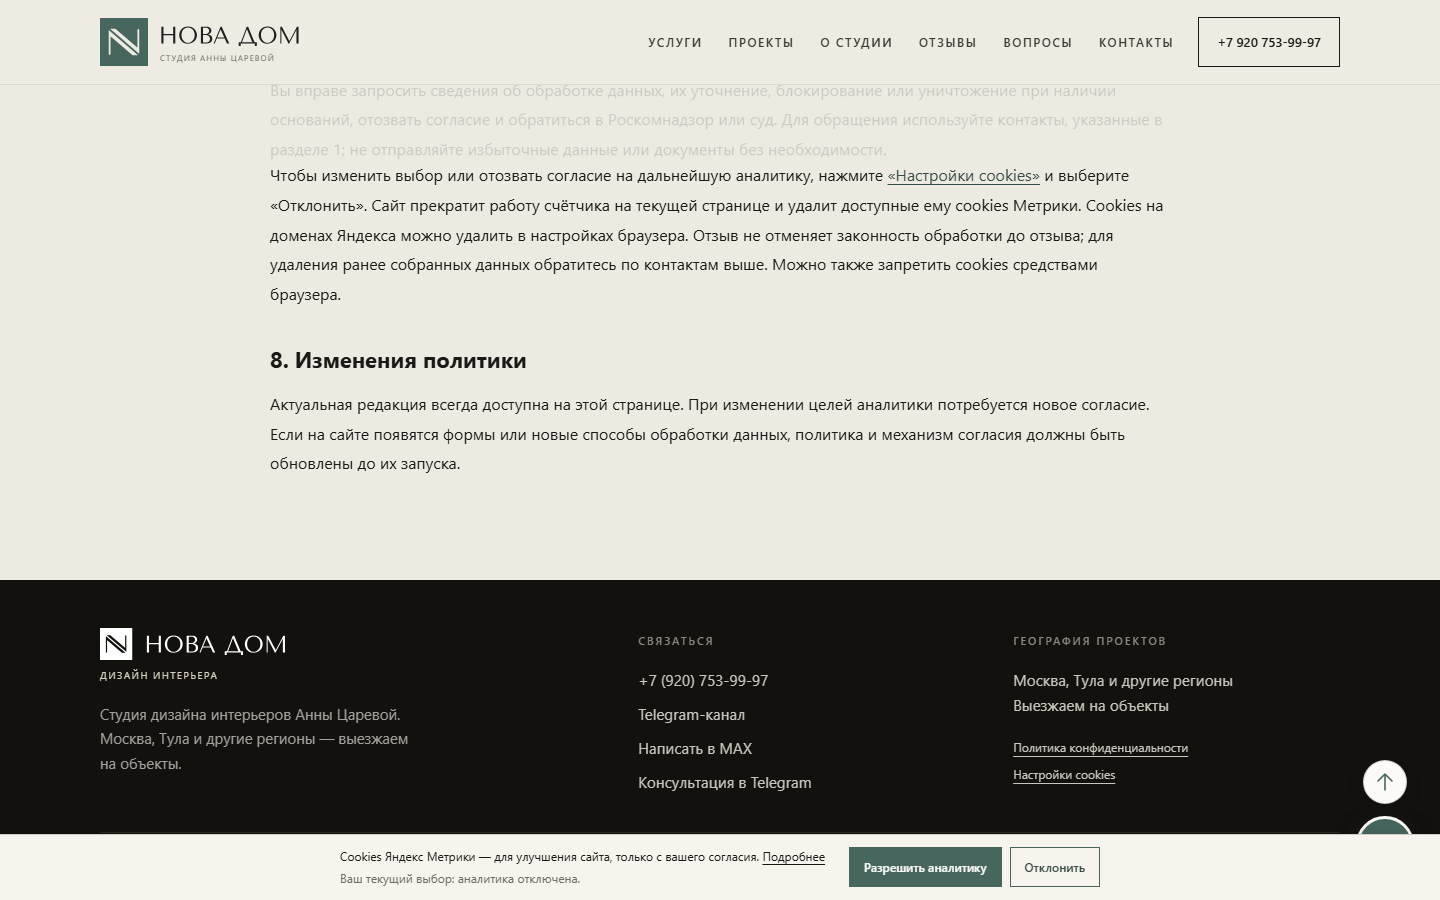
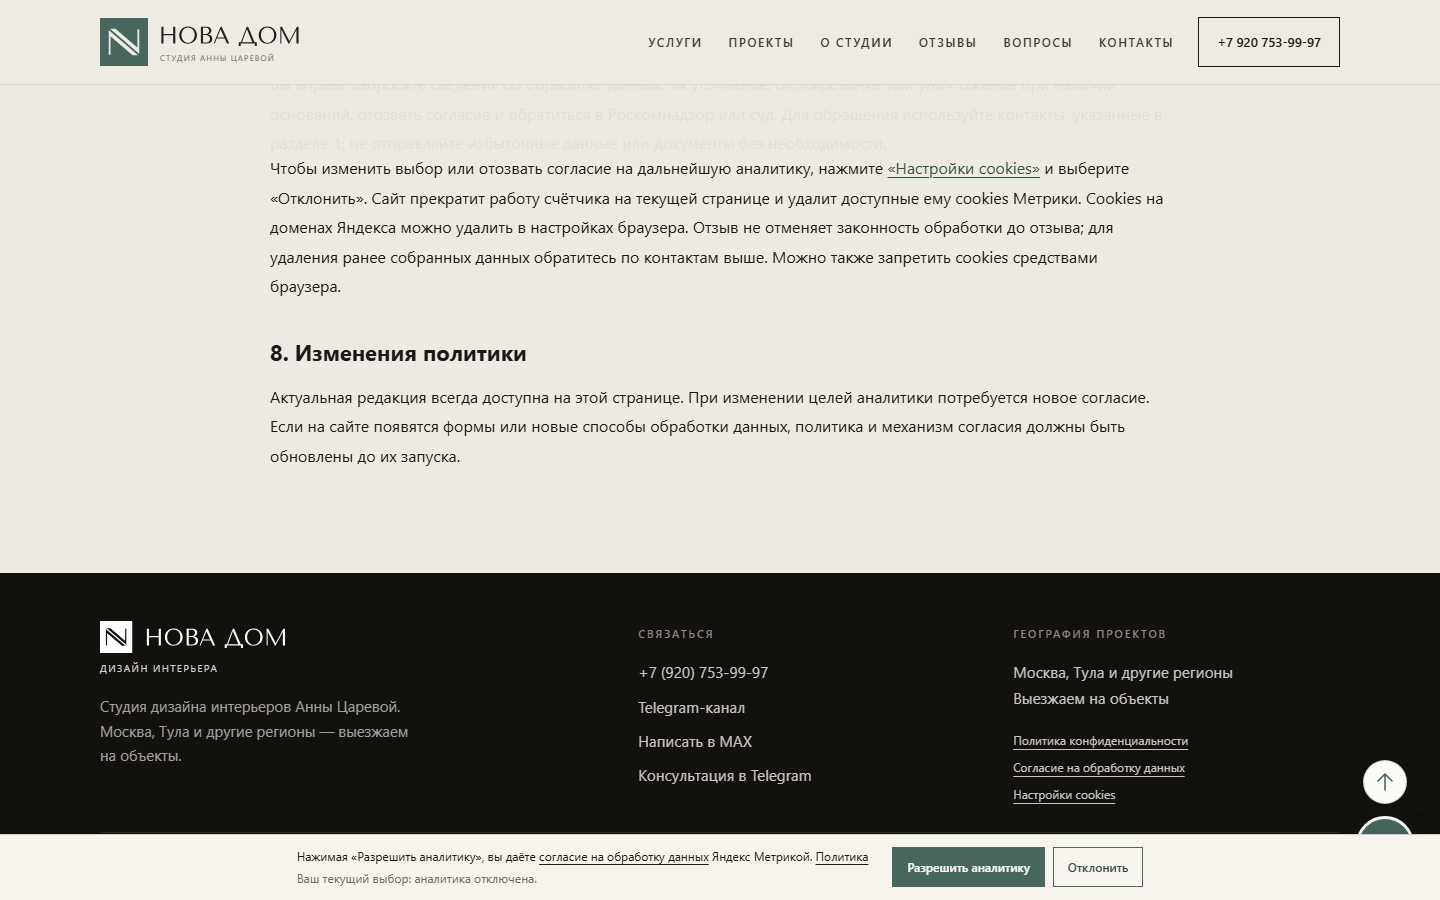
Add ambient studio animations and update visual audits

diff --git a/script.js b/script.js
@@ -776,6 +776,33 @@ document.querySelectorAll('[data-hero-ambient]').forEach(figure => {
     schedule();
 });
 
+/* Keep ambient details running only while they are visible. */
+(() => {
+    if (!('IntersectionObserver' in window)) return;
+    const motion = window.matchMedia('(prefers-reduced-motion: reduce)');
+    const details = [...document.querySelectorAll('.header .brand-symbol')];
+    // A few structural rules, rather than every divider on the page.
+    document.querySelectorAll('main .section-head').forEach((heading, index) => {
+        if (index % 2 === 0) {
+            heading.style.setProperty('--glint-delay', `${1 + (index % 3) * 1.7}s`);
+            details.push(heading);
+        }
+    });
+    const observer = new IntersectionObserver(entries => {
+        entries.forEach(({ target, isIntersecting }) => {
+            target.classList.toggle('ambient-running', isIntersecting);
+        });
+    });
+    details.forEach(element => {
+        element.classList.add('ambient-detail');
+        observer.observe(element);
+    });
+    const sync = () => document.documentElement.classList.toggle('motion-paused', document.hidden || motion.matches);
+    document.addEventListener('visibilitychange', sync);
+    motion.addEventListener('change', sync);
+    sync();
+})();
+
 /* ---------- Cinematic entrances, once per element ---------- */
 (() => {
     const motion = window.matchMedia('(prefers-reduced-motion: reduce)');
@@ -865,6 +892,11 @@ document.querySelectorAll('[data-hero-ambient]').forEach(figure => {
                     if (!el.parentElement.closest('.hero-actions, .actions')) elementEntrance(el, 420);
                 });
             } else if (type === 'heading') headingEntrance(target);
+            else if (type === 'caption') {
+                // Let the interior establish itself before its title appears.
+                elementEntrance(target, 480);
+                target.querySelectorAll('h2').forEach(h => headingEntrance(h, 480));
+            }
             else if (type === 'photo') {
                 play(target, [{ opacity: 0 }, { opacity: 1 }], 1100);
                 // Slideshow frames already have their continuous cinematic movement.
@@ -887,8 +919,9 @@ document.querySelectorAll('[data-hero-ambient]').forEach(figure => {
             if (!h.textContent.trim()) return;
             headings.set(h, h.cloneNode(true)); splitLines(h);
         });
+        main.querySelectorAll('.portfolio-caption, .principle-photo-label').forEach(el => register(el, 'caption'));
         main.querySelectorAll('.hero-copy, .page-hero-copy, .section-head, .statement-copy, .principle-copy, .journal-heading, .cta-band, .project-story-copy, .portfolio-intro, .contact-panel, .project-viewer-heading').forEach(el => register(el, 'sequence'));
-        headings.forEach((_, h) => { if (!h.closest('[data-cinema="sequence"]')) register(h, 'heading'); });
+        headings.forEach((_, h) => { if (!h.closest('[data-cinema="sequence"], [data-cinema="caption"]')) register(h, 'heading'); });
         main.querySelectorAll('.service-grid, .project-packages, .service-extras, .process-grid, .include-grid').forEach(grid => {
             Array.from(grid.children).forEach((card, i) => register(card, 'element', i * 100));
         });

diff --git a/styles.css b/styles.css
@@ -3908,3 +3908,44 @@ button {
 @media(max-width:760px) { .cookie-notice { flex-direction:column; align-items:stretch; gap:8px; padding:10px 16px; padding-bottom:calc(10px + env(safe-area-inset-bottom,0px)); } .cookie-actions { justify-content:flex-end; } .cookie-actions button { min-height:40px; padding:8px 12px; } }
 @media(max-width:600px) { .privacy-page { padding-top:120px; padding-bottom:60px; } .privacy-page h2 { font-size:19px; } }
 @media print { .cookie-notice, .footer-legal button { display:none!important; } }
+
+/* Quiet, continuous details: the wordmark and surrounding copy stay still. */
+.header .brand-symbol.ambient-detail {
+  transform-origin: 50% 55%;
+  animation: studio-symbol-sway 12s ease-in-out infinite;
+  animation-play-state: paused;
+}
+.section-head.ambient-detail { position: relative; }
+.section-head.ambient-detail::after {
+  content: '';
+  position: absolute;
+  top: -1px;
+  left: 0;
+  width: 100%;
+  height: 1px;
+  pointer-events: none;
+  background: linear-gradient(90deg, transparent 35%, var(--brass-light) 48%, var(--white-warm) 50%, var(--brass-light) 52%, transparent 65%);
+  background-size: 300% 100%;
+  opacity: 0;
+  animation: studio-line-glint 11s ease-in-out infinite;
+  animation-delay: var(--glint-delay, 1s);
+  animation-play-state: paused;
+}
+.header .brand-symbol.ambient-running,
+.section-head.ambient-running::after { animation-play-state: running; }
+html.motion-paused .header .brand-symbol,
+html.motion-paused .section-head.ambient-detail::after { animation-play-state: paused; }
+@keyframes studio-symbol-sway {
+  0%, 100% { rotate: -3deg; }
+  50% { rotate: 3deg; }
+}
+@keyframes studio-line-glint {
+  0%, 72% { background-position: 100% 0; opacity: 0; }
+  76% { opacity: .65; }
+  92% { opacity: .65; }
+  96%, 100% { background-position: 0% 0; opacity: 0; }
+}
+@media (prefers-reduced-motion: reduce) {
+  .header .brand-symbol.ambient-detail { animation: none; rotate: none; }
+  .section-head.ambient-detail::after { animation: none; opacity: 0; }
+}
